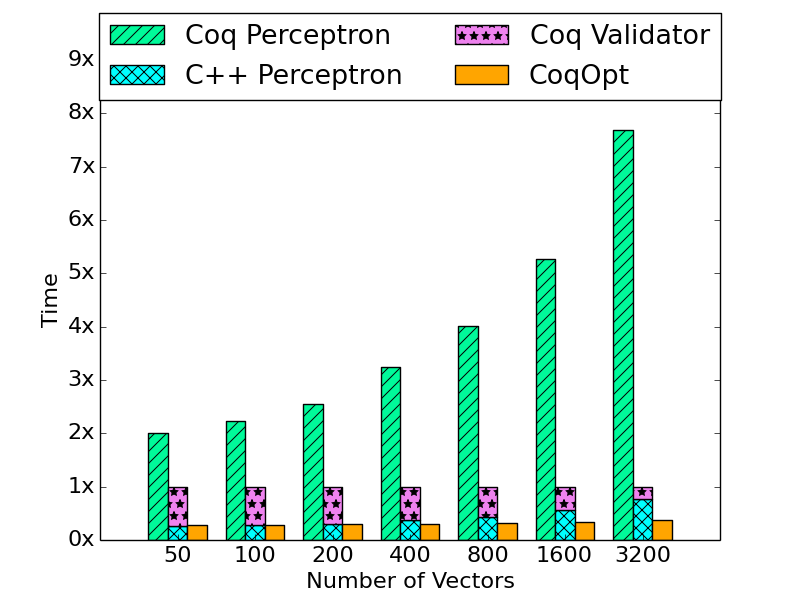
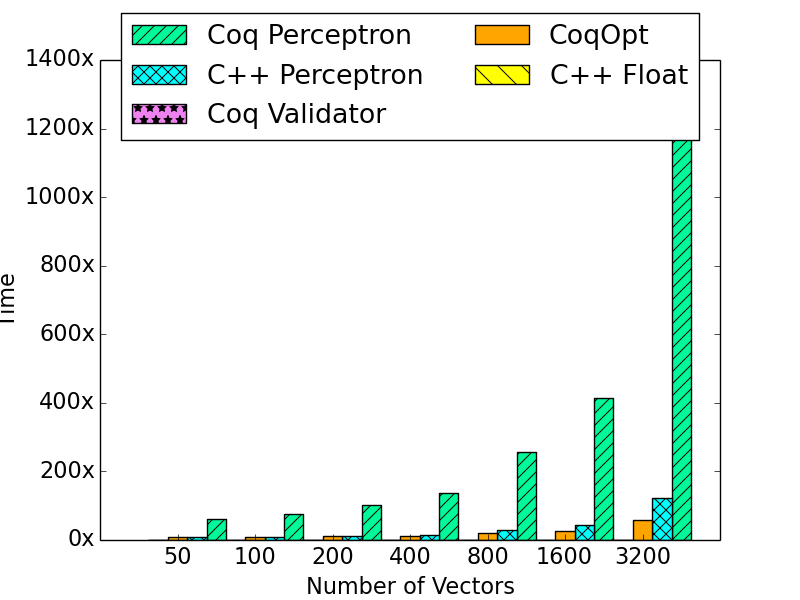
Updates plots. (Still need to deal with the scale of the y axis)

diff --git a/Benchmarks/cpp/makeplotfiles.cpp b/Benchmarks/cpp/makeplotfiles.cpp
@@ -6,7 +6,8 @@ using namespace std;
 int main(int argc, char ** argv){
   ifstream fuels("output/fuels");
   ifstream cpptimes("output/cpptimes");
-  ifstream cppvaltimes("output/cpp_valid_times");
+  ifstream cppfloattimes("output/cpp_floattimes");
+  ifstream cppvaltimes("output/cpp_float_valid_times");
   ifstream hstimes("output/hstimes");
   ifstream hsopttimes("output/hsopttimes");
 
@@ -15,6 +16,7 @@ int main(int argc, char ** argv){
     int vec;
     string s;
     cpptimes >> s >> vec;
+    cppfloattimes >> s >> vec;
     cppvaltimes >> s >> vec;
     hstimes >> s >> vec;
     hsopttimes >> s >> vec;
@@ -22,20 +24,22 @@ int main(int argc, char ** argv){
     fuels >> s >> vec;
     int min, f;
     char c;
-    double sec, timeCPP(0), timeCPPVal(0), timeHS(0), timeHSOpt(0), fuel(0);
+    double sec, timeCPP(0), timeCPPFloat(0), timeCPPVal(0), timeHS(0), timeHSOpt(0), fuel(0);
     for (int j = 0; j < 10; ++j){
       cpptimes >> min >> c >> sec >> c; timeCPP += 60*min + sec;
+      cppfloattimes >> min >> c >> sec >> c; timeCPPFloat += 60*min + sec;
       cppvaltimes >> min >> c >> sec >> c; timeCPPVal += 60*min + sec;
       hstimes >> min >> c >> sec >> c; timeHS += 60*min + sec;
       hsopttimes >> min >> c >> sec >> c; timeHSOpt += 60*min + sec;
       fuels >> s >> f; fuel += f;
     }
-    fuel /= 10.0; timeCPP /= 10.0; timeCPPVal /= 10.0; timeHS /= 10.0; timeHSOpt /= 10.0;
+    fuel /= 10.0; timeCPP /= 10.0; timeCPPFloat /= 10.0; timeCPPVal /= 10.0; timeHS /= 10.0; timeHSOpt /= 10.0;
     vectors << fuel << '\t'
             << timeCPP << '\t' << timeCPP/fuel << '\t' << timeCPP/vec << '\t'
             << timeCPPVal << '\t' << timeCPPVal/fuel << '\t' << timeCPPVal/vec << '\t'
             << timeHS << '\t' << timeHS/fuel << '\t' << timeHS/vec << '\t'
-            << timeHSOpt << '\t' << timeHSOpt/fuel << '\t' << timeHSOpt/vec << endl;
+            << timeHSOpt << '\t' << timeHSOpt/fuel << '\t' << timeHSOpt/vec << '\t'
+            << timeCPPFloat << '\t' << timeCPPFloat/fuel << '\t' << timeCPPFloat/vec << endl;
   } vectors.close();
 
   ofstream features("plots/features.plot");
@@ -43,6 +47,7 @@ int main(int argc, char ** argv){
     int feat;
     string s;
     cpptimes >> s >> feat;
+    cppfloattimes >> s >> feat;
     cppvaltimes >> s >> feat;
     hstimes >> s >> feat;
     hsopttimes >> s >> feat;
@@ -50,20 +55,22 @@ int main(int argc, char ** argv){
     fuels >> s >> feat;
     int min, f;
     char c;
-    double sec, timeCPP(0), timeCPPVal(0), timeHS(0), timeHSOpt(0), fuel(0);
+    double sec, timeCPP(0), timeCPPFloat(0), timeCPPVal(0), timeHS(0), timeHSOpt(0), fuel(0);
     for (int j = 0; j < 10; ++j){
       cpptimes >> min >> c >> sec >> c; timeCPP += 60*min + sec;
+      cppfloattimes >> min >> c >> sec >> c; timeCPPFloat += 60*min + sec;
       cppvaltimes >> min >> c >> sec >> c; timeCPPVal += 60*min + sec;
       hstimes >> min >> c >> sec >> c; timeHS += 60*min + sec;
       hsopttimes >> min >> c >> sec >> c; timeHSOpt += 60*min + sec;
       fuels >> s >> f; fuel += f;
     }
-    fuel /= 10.0; timeCPP /= 10.0; timeCPPVal /= 10.0; timeHS /= 10.0; timeHSOpt /= 10.0;
+    fuel /= 10.0; timeCPP /= 10.0; timeCPPFloat /= 10.0; timeCPPVal /= 10.0; timeHS /= 10.0; timeHSOpt /= 10.0;
     features << fuel << '\t'
              << timeCPP << '\t' << timeCPP/fuel << '\t' << timeCPP/feat << '\t'
              << timeCPPVal << '\t' << timeCPPVal/fuel << '\t' << timeCPPVal/feat << '\t'
              << timeHS << '\t' << timeHS/fuel << '\t' << timeHS/feat << '\t'
-             << timeHSOpt << '\t' << timeHSOpt/fuel << '\t' << timeHSOpt/feat << endl;
+             << timeHSOpt << '\t' << timeHSOpt/fuel << '\t' << timeHSOpt/feat << '\t'
+             << timeCPPFloat << '\t' << timeCPPFloat/fuel << '\t' << timeCPPFloat/feat << endl;
   } features.close();
 
   ofstream Z("plots/Z.plot");
@@ -71,6 +78,7 @@ int main(int argc, char ** argv){
     int Zs;
     string s;
     cpptimes >> s >> Zs;
+    cppfloattimes >> s >> Zs;
     cppvaltimes >> s >> Zs;
     hstimes >> s >> Zs;
     hsopttimes >> s >> Zs;
@@ -78,20 +86,22 @@ int main(int argc, char ** argv){
     fuels >> s >> Zs;
     int min, f;
     char c;
-    double sec, timeCPP(0), timeCPPVal(0), timeHS(0), timeHSOpt(0), fuel(0);
+    double sec, timeCPP(0), timeCPPFloat(0), timeCPPVal(0), timeHS(0), timeHSOpt(0), fuel(0);
     for (int j = 0; j < 10; ++j){
       cpptimes >> min >> c >> sec >> c; timeCPP += 60*min + sec;
+      cppfloattimes >> min >> c >> sec >> c; timeCPPFloat += 60*min + sec;
       cppvaltimes >> min >> c >> sec >> c; timeCPPVal += 60*min + sec;
       hstimes >> min >> c >> sec >> c; timeHS += 60*min + sec;
       hsopttimes >> min >> c >> sec >> c; timeHSOpt += 60*min + sec;
       fuels >> s >> f; fuel += f;
     }
-    fuel /= 10.0; timeCPP /= 10.0; timeCPPVal /= 10.0; timeHS /= 10.0; timeHSOpt /= 10.0;
+    fuel /= 10.0; timeCPP /= 10.0; timeCPPFloat /= 10.0; timeCPPVal /= 10.0; timeHS /= 10.0; timeHSOpt /= 10.0;
     Z << fuel << '\t'
       << timeCPP << '\t' << timeCPP/fuel << '\t' << timeCPP/Zs << '\t'
       << timeCPPVal << '\t' << timeCPPVal/fuel << '\t' << timeCPPVal/Zs << '\t'
       << timeHS << '\t' << timeHS/fuel << '\t' << timeHS/Zs << '\t'
-      << timeHSOpt << '\t' << timeHSOpt/fuel << '\t' << timeHSOpt/Zs << endl;
+      << timeHSOpt << '\t' << timeHSOpt/fuel << '\t' << timeHSOpt/Zs << '\t'
+      << timeCPPFloat << '\t' << timeCPPFloat/fuel << '\t' << timeCPPFloat/Zs << endl;
   } Z.close();
   return 0;
 }

diff --git a/Benchmarks/plots/makeplots.py b/Benchmarks/plots/makeplots.py
@@ -15,31 +15,35 @@ def plot_data(img_name, file_name, xlabel, yRange = None):
   B = []
   C = []
   E = []
+  F = []
   N = [""]
 
-  F = open(file_name, 'r')
+  file = open(file_name, 'r')
 
-  for l in F.readlines():
+  for l in file.readlines():
     data = l.split()
     N.append(data[0])
     A.append(float(data[8]))
     B.append(float(data[2]))
     C.append(float(data[5]))
     E.append(float(data[11]))
-  F.close()
+    F.append(float(data[14]))
+  file.close()
 
   X = np.arange(len(A))
 
-  D = [x + y for (x, y) in zip(B, C)]
+  D = [x + y for (x, y) in zip(F, C)]
   A = [x / y for (x, y) in zip(A, D)]
   B = [x / y for (x, y) in zip(B, D)]
   C = [x / y for (x, y) in zip(C, D)]
   E = [x / y for (x, y) in zip(E, D)]
+  F = [x / y for (x, y) in zip(F, D)]
 
-  a_bar = plot.bar(X-0.375, A, color = '#00fa9a', width = 0.25, hatch='//')
-  b_bar = plot.bar(X-0.125, B, color = 'cyan',width = 0.25, hatch='xx')
-  c_bar = plot.bar(X-0.125, C, color = '#ee82ee', bottom = B, width = 0.25, hatch='*')
-  e_bar = plot.bar(X+0.125, E, color = 'orange', width = 0.25)
+  a_bar = plot.bar(X+0.375, A, color = '#00fa9a', width = 0.25, hatch='//')
+  b_bar = plot.bar(X+0.125, B, color = 'cyan',width = 0.25, hatch='xx')
+  c_bar = plot.bar(X-0.375, C, color = '#ee82ee', bottom = F, width = 0.25, hatch='*')
+  e_bar = plot.bar(X-0.125, E, color = 'orange', width = 0.25)
+  f_bar = plot.bar(X-0.375, F, color = '#ffff00', width=0.25, hatch='\\')
 
   axis.axes.get_xaxis().set_ticklabels(N)
 
@@ -49,13 +53,13 @@ def plot_data(img_name, file_name, xlabel, yRange = None):
   axis.axes.get_yaxis().set_ticklabels(
        [x.get_text()+'x' for x in axis.get_yticklabels()])
 
-  plot.legend([a_bar, b_bar, c_bar, e_bar],
-              ["Coq Perceptron", "C++ Perceptron", "Coq Validator", "CoqOpt"],
+  plot.legend([a_bar, b_bar, c_bar, e_bar, f_bar],
+              ["Coq Perceptron", "C++ Perceptron", "Coq Validator", "CoqOpt", "C++ Float"],
               loc="upper center", bbox_to_anchor=(0.5, 1.125), ncol=2)
   plot.xlabel(xlabel)
   plot.ylabel("Time")
   plot.savefig(img_name)
 
-plot_data("images/VectorsPlot.png", "vectors.plot", "Number of Vectors", [0,9])
-plot_data("images/FeaturePlot.png", "features.plot", "Number of Features", [0,3])
-plot_data("images/ZPlot.png", "Z.plot", u'Precision Bound -- Q = a/Z, a ∈ [-Z, Z]', [0,3])
+plot_data("images/VectorsPlot.png", "vectors.plot", "Number of Vectors") # [0, 9]
+plot_data("images/FeaturePlot.png", "features.plot", "Number of Features") # [0, 3]
+plot_data("images/ZPlot.png", "Z.plot", u'Precision Bound -- Q = a/Z, a ∈ [-Z, Z]') #[0, 3]
